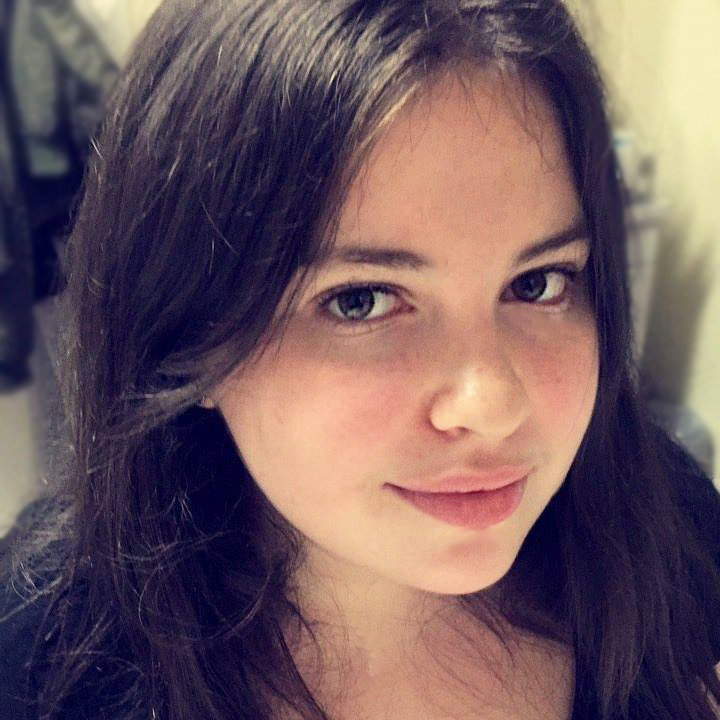
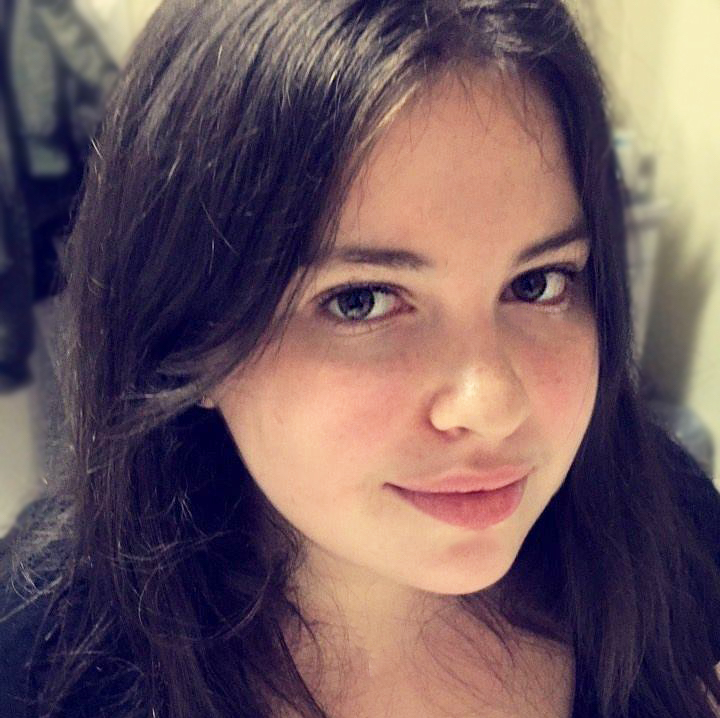
updated headshots and bios

diff --git a/index.html b/index.html
@@ -20,6 +20,13 @@
 
       <!--  Resources style ================== -->
       <link href="css/theme-MariBlue.css" rel="stylesheet" type="text/css" media="all"/>
+        
+        <link href="//cdn-images.mailchimp.com/embedcode/classic-10_7.css" rel="stylesheet" type="text/css">
+<style type="text/css">
+	#mc_embed_signup{background:none; clear:left; font:14px Poppins,Arial,sans-serif; }
+	/* Add your own MailChimp form style overrides in your site stylesheet or in this style block.
+	   We recommend moving this block and the preceding CSS link to the HEAD of your HTML file. */
+</style>
     </head>
     <body>
       <section class="animsition">
@@ -429,14 +436,14 @@
               <li class="item col-sm-6 col-xs-12">
                 <figure>
                   <!-- Your picture -->
-                  <img src="img/Headshots/emily.jpg" alt="Emily Redler" class="img-responsive" />
+                  <img src="img/Headshots/emily.jpg" alt="Emily Redler" class="img-responsive"/>
                   <!-- Picture's description below this one -->
                   <figcaption class="caption">
                     <div class="photo-details">
                       <h4>Emily Redler</h4>
-                      <span>Founder</span>
+                      <span>Co-Founder and Head Organizer</span>
                     </div>
-                    <a href="#project1" class="view">VIEW</a>
+                    <a href="#project1" class="view">VIEW BIO</a>
                   </figcaption>
                 </figure>
               </li>
@@ -444,14 +451,14 @@
               <li class="item col-sm-6 col-xs-12">
                 <figure>
                   <!-- Your picture -->
-                  <img src="img/Headshots/emily.jpg"  alt="Caitlin Stanton" class="img-responsive" />
+                  <img src="img/Headshots/caitlin3.jpg"  alt="Caitlin Stanton" class="img-responsive" />
                   <!-- Picture's description below this one -->
                   <figcaption class="caption">
                     <div class="photo-details">
                       <h4>Caitlin Stanton</h4>
-                      <span>Founder</span>
+                      <span>Co-Founder and Head Organizer</span>
                     </div>
-                    <a href="#project2" class="view">VIEW</a>
+                    <a href="#project2" class="view">VIEW BIO</a>
                   </figcaption>
                 </figure>
               </li>
@@ -515,28 +522,24 @@
 
                   </figcaption>
                 </figure>
-              </li>
-            </ul> -->
+              </li>-->
+            </ul> 
 
             <ul class="project_info">
               <li id="project1">
                 <div class="project_content">
-                  <h2>YOUR TITLE GOES HERE</h2>
-                  <p>Lorem ipsum dolor sit amet, consectetur adipisicing elit. Non, amet, voluptatibus et omnis dolore illo saepe voluptatem qui quibusdam sunt corporis ut iure repellendus delectus voluptate explicabo temporibus quos eaque?
-                     Lorem ipsum dolor sit amet, consectetur adipisicing elit. Non, amet, voluptatibus et omnis dolore illo saepe voluptatem qui quibusdam sunt corporis ut iure repellendus delectus voluptate explicabo temporibus quos eaque?
-                  </p>
-                  <p>Lorem ipsum dolor sit amet, consectetur adipisicing elit. Non, amet, voluptatibus et omnis dolore illo saepe voluptatem qui quibusdam sunt corporis ut iure repellendus delectus voluptate explicabo temporibus quos eaque?
+                  <h2>Emily Redler</h2>
+                    <h3>Co-Founder and Head Organizer</h3>
+                  <p>Emily is a sophomore at Davidson College studying psychology. She is a Research Assistant in a psychology lab and will attend and present a poster at the Association for Behavioral and Cognitive Therapy's annual conference in San Diego in the fall. She also founded and expanded def hacks() along with Caitlin. Her current obsessions include Starbucks, Hamilton, and anything chocolate.
                   </p>
                 </div>
               </li>
 
               <li id="project2">
                 <div class="project_content">
-                  <h2>YOUR TITLE GOES HERE</h2>
-                  <p>Lorem ipsum dolor sit amet, consectetur adipisicing elit. Non, amet, voluptatibus et omnis dolore illo saepe voluptatem qui quibusdam sunt corporis ut iure repellendus delectus voluptate explicabo temporibus quos eaque?
-                     Lorem ipsum dolor sit amet, consectetur adipisicing elit. Non, amet, voluptatibus et omnis dolore illo saepe voluptatem qui quibusdam sunt corporis ut iure repellendus delectus voluptate explicabo temporibus quos eaque?
-                  </p>
-                  <p>Lorem ipsum dolor sit amet, consectetur adipisicing elit. Non, amet, voluptatibus et omnis dolore illo saepe voluptatem qui quibusdam sunt corporis ut iure repellendus delectus voluptate explicabo temporibus quos eaque?
+                  <h2>Caitlin Stanton</h2>
+                    <h3>Co-Founder and Head Organizer</h3>
+                  <p>Caitlin is a sophomore at Cornell University studying electrical and computer engineering. She is a Girls Who Code program alumna, as well as a former #BUILTBYGIRLS technical intern at AOL/Oath and a software engineering intern for ASK Applications. She has helped found the PixieHacks hackathon and ProgramHers organization, both to immerse females in tech, and founded and expanded def hacks() alongside Emily. In her free time, she enjoys a solid brunch, enjoyable movie, and long-winded Netflix session.
                   </p>
                 </div>
               </li>
@@ -588,7 +591,7 @@
           </div>
 
           <div id="contact" class="row">
-              <h2>Get in <strong>touch</strong>, we'd love to hear from you.</h2>
+              <h2><strong>Get in touch</strong>, we'd love to hear from you.</h2>
               <p>Have a question? Comment? Funny joke? Let us know at: </p>
 
               <address class="row">
@@ -619,12 +622,7 @@
               </form>
               
               <!-- Begin MailChimp Signup Form -->
-<link href="//cdn-images.mailchimp.com/embedcode/classic-10_7.css" rel="stylesheet" type="text/css">
-<style type="text/css">
-	#mc_embed_signup{background:none; clear:left; font:14px Poppins,Arial,sans-serif; }
-	/* Add your own MailChimp form style overrides in your site stylesheet or in this style block.
-	   We recommend moving this block and the preceding CSS link to the HEAD of your HTML file. */
-</style>
+
 <div id="mc_embed_signup">
 <form action="//fwdcode.us16.list-manage.com/subscribe/post?u=916715c2a59e611bf291ed805&amp;id=77ac96902f" method="post" id="mc-embedded-subscribe-form" name="mc-embedded-subscribe-form" class="validate" target="_blank" novalidate>
     <div id="mc_embed_signup_scroll">
@@ -664,7 +662,8 @@
           </footer>
 
         </div>
-      </section>
+          
+        </section>
 
       <script src="js/jquery-1.11.3.min.js"></script>
       <script src="js/bootstrap.min.js"></script>
